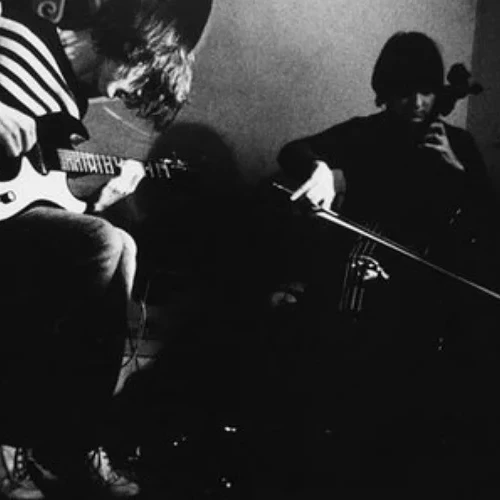
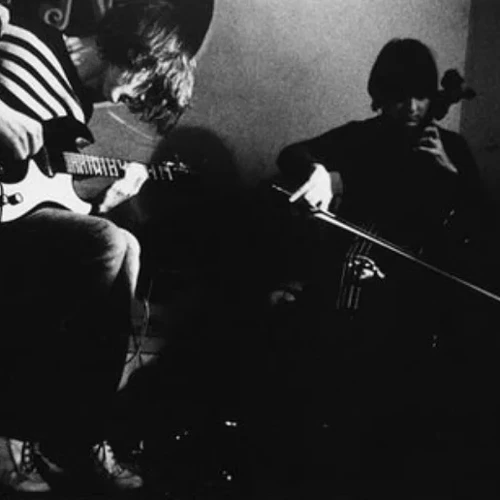
Lots of stuff
- Improved imageConversion
- Moved html files
- Added first download link!

diff --git a/index.html b/index.html
@@ -13,7 +13,7 @@
             <div style="display: inline-block; text-align: left;">
                 This is a small website to host a bunch of <br /> 
                 post rock, drone and other genres, <br />
-                which hasn't found its way onto DSPs <br/>
+                which hasn't found its way onto streaming
             </div>
         </div>
         <div class="responsive">
@@ -21,7 +21,7 @@
                 <a target="_blank" href="images/nsb.webp">
                 <img src="images/nsb.webp" alt="Natural Snow Buildings" width="500" height="500">
                 </a>
-                <div class="desc"><a href="subpages/nsb.html">Natural Snow Buildings</a></div>
+                <div class="desc"><a href="nsb.html">Natural Snow Buildings</a></div>
             </div>
         </div>
 
@@ -30,7 +30,7 @@
                 <a target="_blank" href="images/swans.webp">
                 <img src="images/swans.webp" alt="Swans" width="500" height="500">
                 </a>
-                <div class="desc"><a href="subpages/swans.html">Swans</a></div>
+                <div class="desc"><a href="swans.html">Swans</a></div>
             </div>
         </div>
 
@@ -39,7 +39,7 @@
                 <a target="_blank" href="images/gybe.webp">
                 <img src="images/gybe.webp" alt="Godspeed You! Black Emperor" width="500" height="500">
                 </a>
-                <div class="desc"><a href="subpages/gybe.html">Godspeed You! Black Emperor</a></div>
+                <div class="desc"><a href="gybe.html">Godspeed You! Black Emperor</a></div>
             </div>
         </div>
 
@@ -48,7 +48,7 @@
                 <a target="_blank" href="images/boris.webp">
                 <img src="images/boris.webp" alt="Boris" width="500" height="500">
                 </a>
-                <div class="desc"><a href="subpages/boris.html">Boris</a></div>
+                <div class="desc"><a href="boris.html">Boris</a></div>
             </div>
         </div>
 

diff --git a/nsb.html b/nsb.html
@@ -1,0 +1,28 @@
+<!DOCTYPE html>
+<html lang="en">
+    <head>
+        <meta charset="UTF-8">
+        <meta name="viewport" content="width=device-width, initial-scale=1.0">
+        <meta http-equiv="X-UA-Compatible" content="ie=edge">
+        <title>jake's archive</title>
+        <link rel="stylesheet" href="css/style.css">
+    </head>
+    <body>
+        <h1>Natural Snow Buildings</h1>
+        <p> <a href="index.html">home</a></p>
+        <div class="text", style="text-align: center;">
+            <div style="display: inline-block; text-align: left;">
+                    A French Neofolk and Drone band <br /> 
+            </div>
+        </div>
+        <div class="responsive">
+            <div class="gallery">
+                <a target="_blank" href="images/doftmas.webp">
+                <img src="images/doftmas.webp" alt="Natural Snow Buildings" width="500" height="500">
+                </a>
+                The Dance of the Moon and the Sun
+                <div class="desc"><a href="https://drive.proton.me/urls/DYTVR3D47W#4mNlVFrppNNB">Download</a></div>
+            </div>
+        </div>
+    </body>
+</html>

diff --git a/template.html b/template.html
@@ -1,0 +1,19 @@
+<!DOCTYPE html>
+<html lang="en">
+    <head>
+        <meta charset="UTF-8">
+        <meta name="viewport" content="width=device-width, initial-scale=1.0">
+        <meta http-equiv="X-UA-Compatible" content="ie=edge">
+        <title>jake's archive</title>
+        <link rel="stylesheet" href="css/style.css">
+    </head>
+    <body>
+        <h1>Band Name</h1>
+        <p> <a href="index.html">home</a></p>
+        <div class="text", style="text-align: center;">
+            <div style="display: inline-block; text-align: left;">
+                    blurb about the band <br /> 
+            </div>
+        </div>
+    </body>
+</html>

diff --git a/css/style.css b/css/style.css
@@ -60,3 +60,8 @@ h1 {
     font-family: IBMPlexMonoBold;
     text-align: center;
 }
+
+p {
+    text-align: center;
+    font-family: IBMPlexMonoBold;
+}

diff --git a/scripts/imageConversion.py b/scripts/imageConversion.py
@@ -15,8 +15,16 @@ imageFiles = [
 
 for images in imageFiles:
     image = Image.open(images)
-    crop = (500, 500)
-    left = round((image.size[0] - crop[0])/2)
-    top = round((image.size[1] - crop[1])/2)
-    image = image.crop((left, top, crop[0]+left, crop[1] + top))
-    image.save(f"./images/{pathLeaf(images)}", 'webp', optimize = True, quality = 90)
+    width, height = image.size
+    print(width, height)
+    if width != height:
+        image = image.crop(((width - min(image.size)) // 2,
+                            (height - min(image.size)) // 2,
+                            (width + min(image.size)) // 2,
+                            (height + min(image.size)) // 2))
+
+    image = image.resize((500,500))
+    if ".png" in images:
+        image.save(f"./images/{pathLeaf(images)}".replace(".png", ".webp"), 'webp', optimize = True, quality = 90)
+    else:
+        image.save(f"./images/{pathLeaf(images)}", 'webp', optimize = True, quality = 90)
